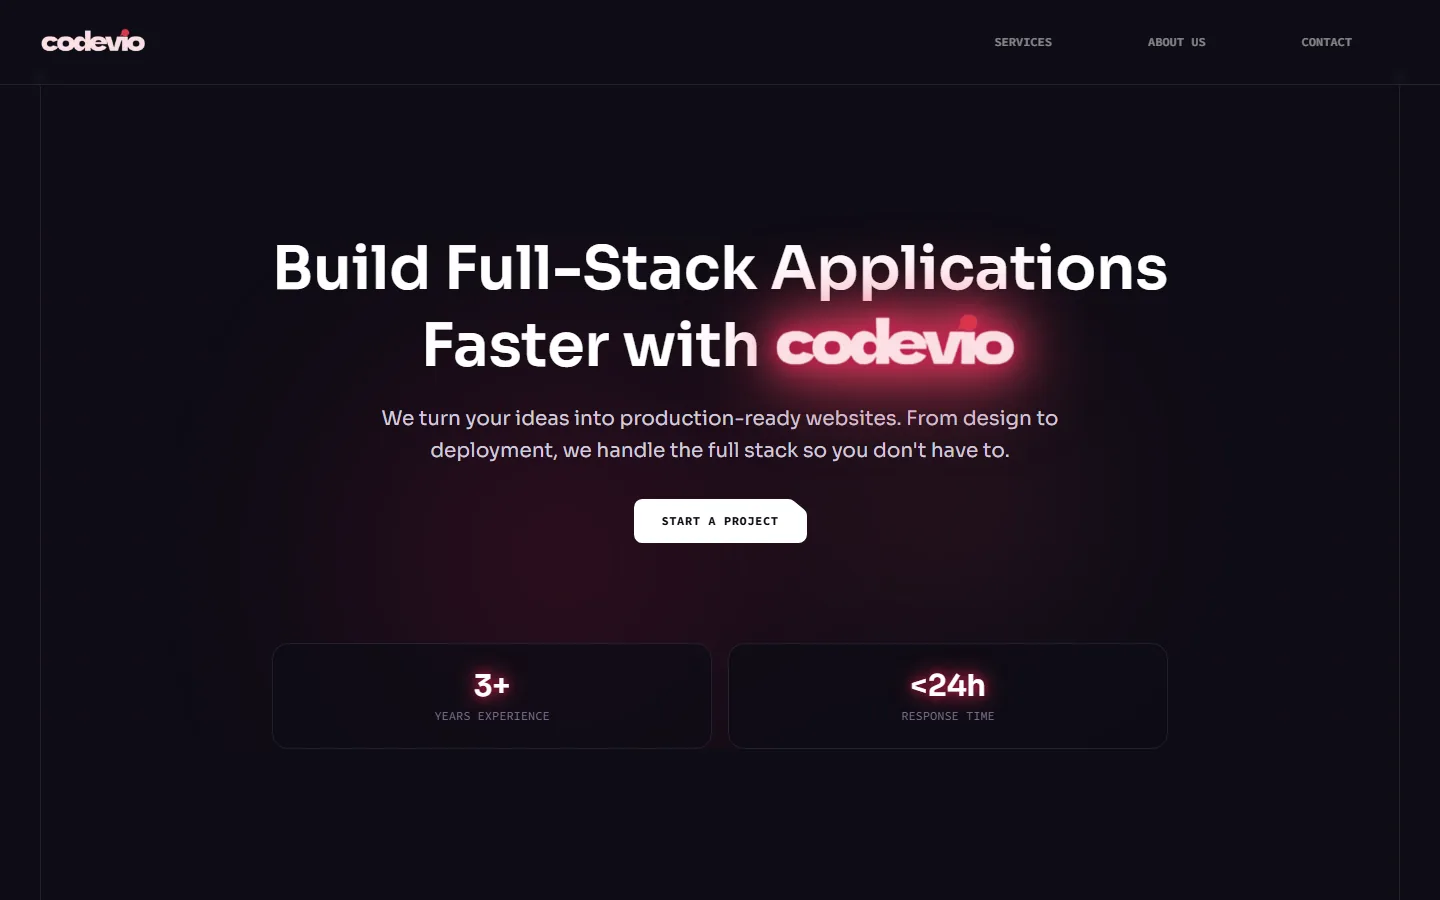
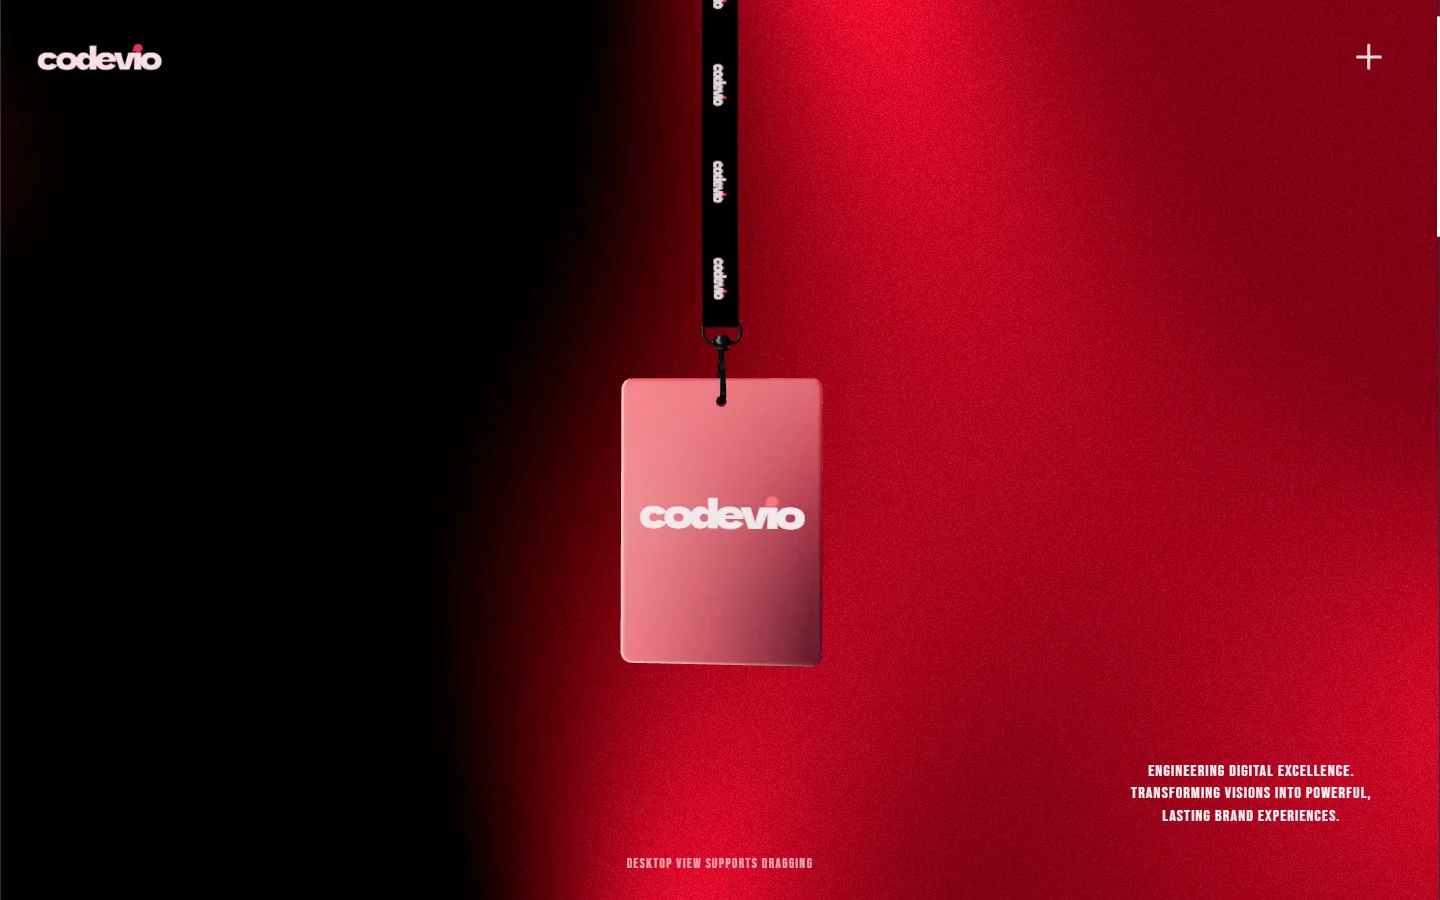
feat: add Fixpoint (multi-app AI agent) as project 03; update Codevio link to codeviodev.netlify.app; six-project counters; fresh screenshots

diff --git a/src/content/projects.ts b/src/content/projects.ts
@@ -12,6 +12,7 @@ export type Project = {
   features: ProjectFeature[];
   stack: string[];
   live?: string;
+  liveLabel?: string;
   repo?: string;
   image: string;
   imageMobile: string;
@@ -94,6 +95,45 @@ export const projects: Project[] = [
     index: "02",
   },
   {
+    slug: "fixpoint",
+    name: "Fixpoint",
+    tagline: "A multi-app AI agent that proves its work",
+    type: "AI agent platform",
+    year: "2026",
+    role: "Design & full-stack development",
+    summary:
+      "An agent that resolves customer exceptions across billing, inbox, CRM, chat and docs — and proves it against real system state before claiming success.",
+    description: [
+      "Fixpoint handles the messy end of customer support — double charges, refunds, escalations — across five connected apps: Stripe, Gmail, Slack, HubSpot and Google Drive. Built for the Multi-App AI Agent Hackathon 2026.",
+      "The engineering is in what stops it: a deny-by-default action gateway, HMAC-signed single-use approvals bound to an action hash, a hash-chained audit ledger, and an independent verifier that re-reads provider state after every mutation. An S1–S16 evaluation matrix scores every run — 16/16 passing, zero unsafe mutations.",
+    ],
+    features: [
+      {
+        title: "Sealed context",
+        text: "Tenant, actor, capabilities and the amount envelope are assembled server-side; the model can never name a tenant or change its authority.",
+      },
+      {
+        title: "Bound approvals",
+        text: "Money above the envelope pauses for a human. Approvals are HMAC-signed, single-use, expiring — and any change voids them.",
+      },
+      {
+        title: "Independent verification",
+        text: "After every mutation, a verifier re-reads real provider state; claims that cannot be grounded fail the run.",
+      },
+      {
+        title: "Tamper-evident audit",
+        text: "Every plan, decision, tool call and verification is hash-chained — breaking one entry is detectable at the exact index.",
+      },
+    ],
+    stack: ["Python", "FastAPI", "PostgreSQL", "React", "TypeScript", "Docker"],
+    live: "https://youtu.be/0u5WcobheGo",
+    liveLabel: "Demo video",
+    image: "/work/fixpoint.webp",
+    imageMobile: "/work/fixpoint-mobile.webp",
+    alt: "Fixpoint operator console — a dark interface showing an agent run with approvals, verification and audit trail",
+    index: "03",
+  },
+  {
     slug: "codevio",
     name: "Codevio",
     tagline: "The agency platform for our own studio",
@@ -121,11 +161,11 @@ export const projects: Project[] = [
       },
     ],
     stack: ["React", "Vite", "Tailwind CSS", "GSAP", "Motion", "Three.js"],
-    live: "https://codevio.net/",
+    live: "https://codeviodev.netlify.app/",
     image: "/work/codevio.webp",
     imageMobile: "/work/codevio-mobile.webp",
-    alt: "Codevio homepage — 'Build Full-Stack Applications Faster with codevio' on a dark stage with a red glow",
-    index: "03",
+    alt: "Codevio homepage — a 3D lanyard badge suspended over a red and black split stage",
+    index: "04",
   },
   {
     slug: "godrive-korea",
@@ -163,7 +203,7 @@ export const projects: Project[] = [
     image: "/work/godrive-korea.webp",
     imageMobile: "/work/godrive-korea-mobile.webp",
     alt: "GoDrive Korea homepage — bold white type over a dark stage with a car silhouette and red accents",
-    index: "04",
+    index: "05",
   },
   {
     slug: "copper-kitchen",
@@ -201,6 +241,6 @@ export const projects: Project[] = [
     image: "/work/copper-kitchen.webp",
     imageMobile: "/work/copper-kitchen-mobile.webp",
     alt: "Copper Kitchen homepage — a dark food photograph with elegant serif type and copper accents",
-    index: "05",
+    index: "06",
   },
 ];

diff --git a/src/components/work/ProjectPlate.tsx b/src/components/work/ProjectPlate.tsx
@@ -1,7 +1,7 @@
 "use client";
 import { TransitionLink } from "@/components/layout/TransitionLink";
 import { MetaLabel } from "@/components/ui/MetaLabel";
-import type { Project } from "@/content/projects";
+import { projects, type Project } from "@/content/projects";
 
 /**
  * A single numbered "plate" in the work stack. On large screens plates are
@@ -13,7 +13,9 @@ export function ProjectPlate({ project, order }: { project: Project; order: numb
     <article className="lg:sticky" style={{ top: `calc(4.5rem + ${order * 12}px)` }}>
       <div className="border border-line bg-surface">
         <div className="flex items-center justify-between gap-4 border-b border-line px-5 py-3">
-          <MetaLabel>{project.index} / 05</MetaLabel>
+          <MetaLabel>
+            {project.index} / {String(projects.length).padStart(2, "0")}
+          </MetaLabel>
           <MetaLabel className="hidden sm:block">{project.type}</MetaLabel>
           <MetaLabel>{project.year}</MetaLabel>
         </div>

diff --git a/src/app/work/[slug]/page.tsx b/src/app/work/[slug]/page.tsx
@@ -61,7 +61,7 @@ export default async function CaseStudyPage({ params }: { params: Promise<{ slug
 
           <div className="rule mt-6 flex items-baseline justify-between gap-6 pt-6">
             <MetaLabel>
-              {project.index} / 05 — {project.type}
+              {project.index} / {String(projects.length).padStart(2, "0")} — {project.type}
             </MetaLabel>
             <MetaLabel>{project.year}</MetaLabel>
           </div>
@@ -97,7 +97,7 @@ export default async function CaseStudyPage({ params }: { params: Promise<{ slug
                     external
                     className="text-body text-ink transition-colors hover:text-accent pointer-fine:min-h-0"
                   >
-                    Live site
+                    {project.liveLabel ?? "Live site"}
                   </ArrowLink>
                 ) : null}
                 {project.repo ? (

diff --git a/src/components/sections/Work.tsx b/src/components/sections/Work.tsx
@@ -10,7 +10,7 @@ export function Work() {
         <SectionHead
           index="01"
           eyebrow="Selected work"
-          title="Five products, shipped and live."
+          title="Six products, shipped and live."
           lede="Marketplaces, storefronts and platforms I designed and built end to end. Open a case study for the story behind it."
           aside={<MetaLabel>2026 — live</MetaLabel>}
         />

diff --git a/src/components/sections/Hero.tsx b/src/components/sections/Hero.tsx
@@ -127,7 +127,7 @@ export function Hero() {
               )}
             </AnimatePresence>
           </MetaLabel>
-          <MetaLabel className="hidden md:block">05 projects — 2026</MetaLabel>
+          <MetaLabel className="hidden md:block">06 projects — 2026</MetaLabel>
         </motion.div>
       </div>
     </section>

diff --git a/EVIDENCE.md b/EVIDENCE.md
@@ -7,7 +7,9 @@ Unsupported claims must not ship; flagged items need the owner's confirmation.
 |---|---|---|---|---|
 | "Stay in Kosovo" is a live tourism & mobility platform | Home plate 01; `/work/stay-in-kosovo` | https://stayinkosovo.netlify.app/ (checked 2026-10-08; screenshot in `public/work/`) | high | as written |
 | NŪRA Skin storefront is live | Home plate 02; case study | https://nuraskincare-dev.netlify.app/ (checked 2026-10-08) | high | as written |
-| Codevio agency platform is live | Home plate 03; case study | https://codevio.net/ (checked 2026-10-08) | high | as written |
+| Fixpoint is a multi-app AI agent built for the Multi-App AI Agent Hackathon 2026 | Home plate 03; case study | Local repo `Codevio-FixPoint` (private) README + SUBMISSION.md; public demo video https://youtu.be/0u5WcobheGo (checked 2026-10-08) | high (existence) | as written |
+| Fixpoint: "16/16 evaluation scenarios pass, zero unsafe mutations" | Fixpoint case study | The project's own SUBMISSION.md build output (reproducible via `python -m app.evals.runner`) | self-reported build result | as written |
+| Codevio agency platform is live | Home plate 04; case study | https://codeviodev.netlify.app/ (checked 2026-10-08) | high | as written |
 | GoDrive Korea marketplace is live | Home plate 04; case study | https://godrivekorea.com (checked 2026-10-08) | high | as written |
 | Copper Kitchen platform is live | Home plate 05; case study | https://copperkitchen.netlify.app/ (checked 2026-10-08) | high | as written |
 | stay-in-kosovo source is public | Case study "Repository" link | https://github.com/melosalidema/stay-in-kosovo | high | as written |
@@ -19,5 +21,5 @@ Unsupported claims must not ship; flagged items need the owner's confirmation.
 | "I answer within a day" | Contact copy | **Assumption — confirm before launch** | medium | keep or adjust |
 
 Notes:
-- No metrics, client counts, testimonials or awards appear anywhere except the MicroBit certificate from the CV.
+- No metrics, client counts, testimonials or awards appear anywhere except the MicroBit certificate from the CV and Fixpoint's evaluation results, which are the project's own reproducible build output.
 - Project screenshots in `public/work/` are direct captures of the live sites, taken 2026-10-08.

diff --git a/PRODUCT.md b/PRODUCT.md
@@ -2,7 +2,7 @@
 
 ## Offer
 
-A personal portfolio and five case studies for **Melos Alidema**, full-stack developer (Pozheran, Kosovo). Goal: win full-stack roles and freelance work by showing real, live products and the craft behind them.
+A personal portfolio and six case studies for **Melos Alidema**, full-stack developer (Pozheran, Kosovo). Goal: win full-stack roles and freelance work by showing real, live products and the craft behind them.
 
 ## Users & jobs
 
@@ -15,7 +15,7 @@ A personal portfolio and five case studies for **Melos Alidema**, full-stack dev
 ## Facts vs assumptions
 
 **Facts (verifiable):**
-- Five live products: stayinkosovo.netlify.app, nuraskincare-dev.netlify.app, codevio.net, godrivekorea.com, copperkitchen.netlify.app — all verified live on 2026-10-08.
+- Six products: stayinkosovo.netlify.app, nuraskincare-dev.netlify.app, codeviodev.netlify.app, godrivekorea.com, copperkitchen.netlify.app — all verified live on 2026-10-08; Fixpoint's public artifact is its demo video (the repository is private).
 - stay-in-kosovo repository is public on GitHub.
 - Role history, education, certificates, languages: from the user's own CV.
 - Contact details: from the user's own CV.
